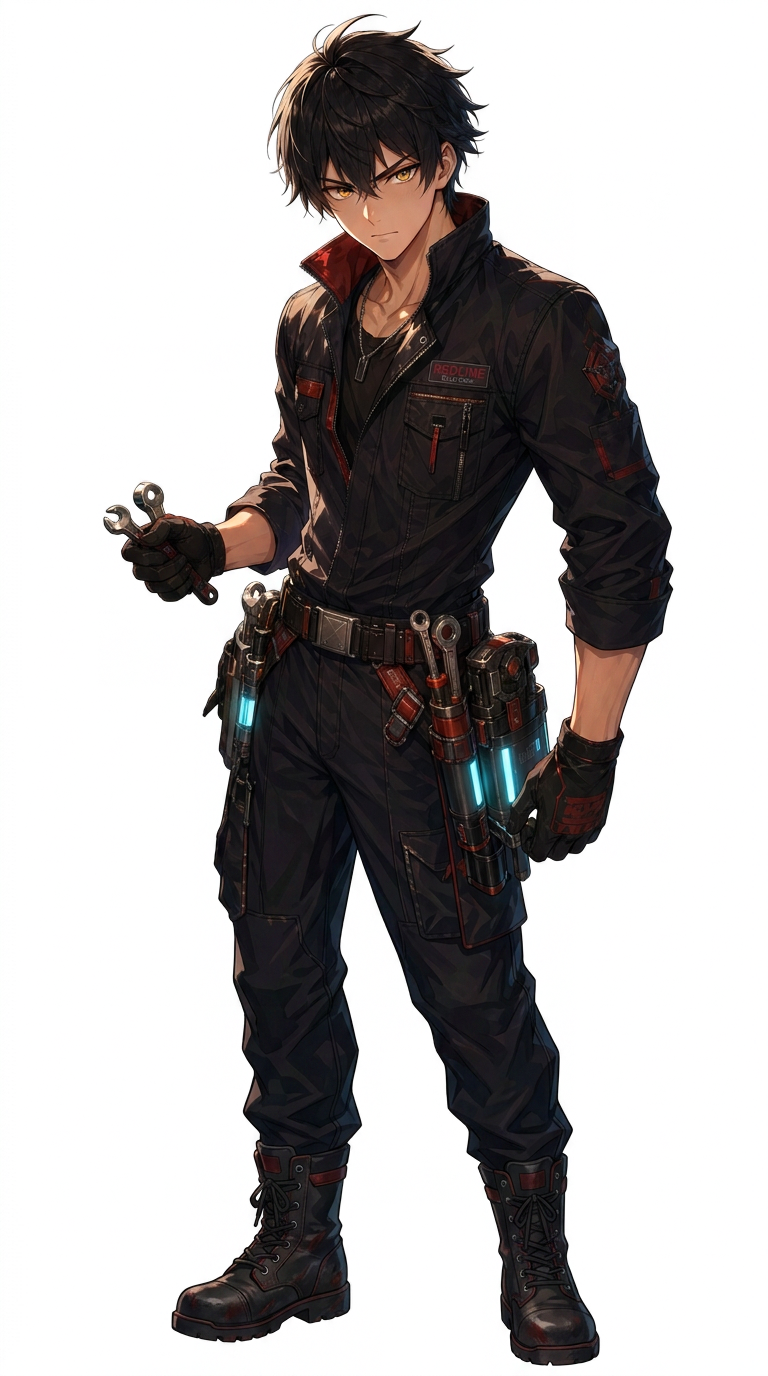
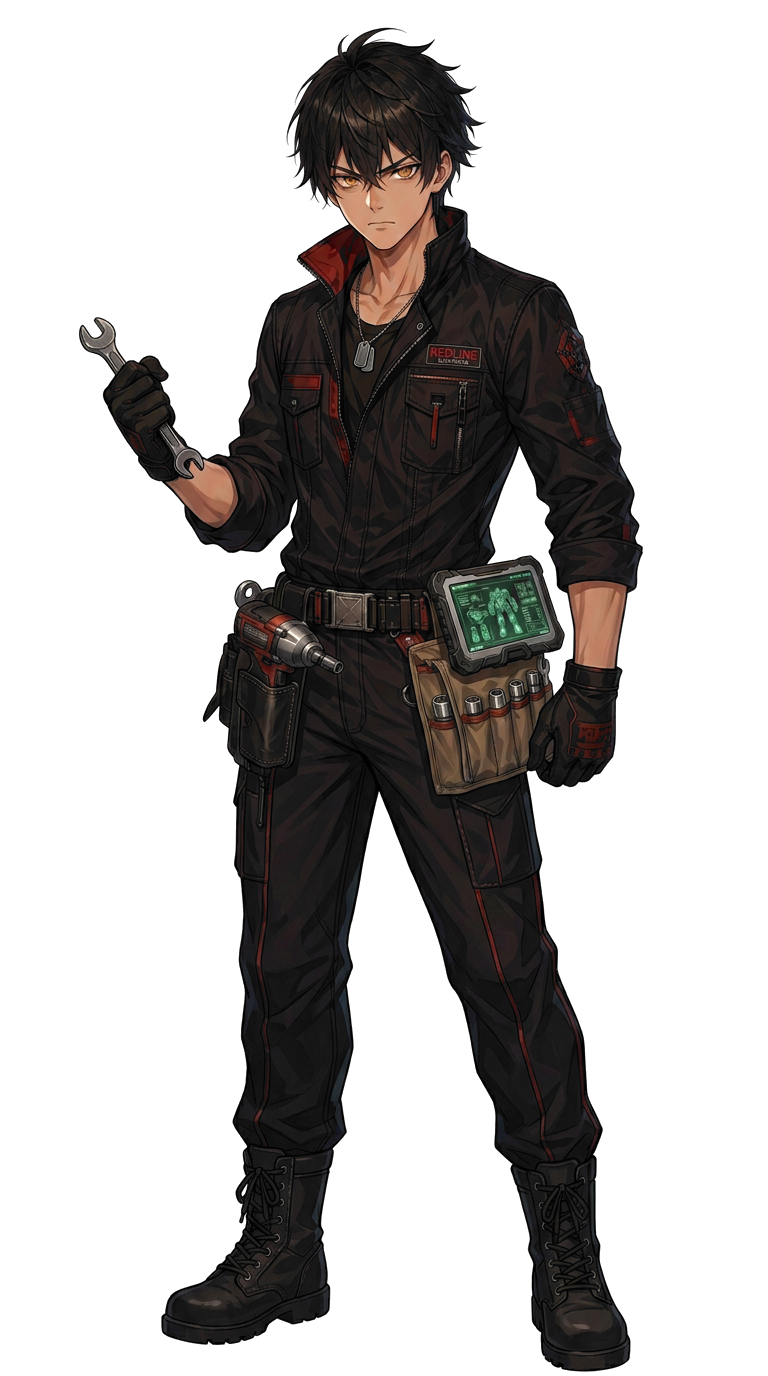
Fix teleport-rollback deadlock, height-only sprite scaling, Momo shoes, Ren real tools
Engine/game (game.js):
- Graph teleport now wipes presentation + history BEFORE and AFTER the async
  engine.run('jump'): rollback() at step 0 scans history('jump'), and the
  teleport entry made Back cross into the pre-jump session — often the
  Start->Start self-edge — replaying statements forward into a corrupted
  half-state ("empty slide you cannot leave": step oscillated -1/0/1, scene
  state set without its element). Reproduced in a real Blink browser, fixed,
  re-verified: Back now clamps at the teleport start as "beginning of game",
  forward flow matches fresh play. Post-wipe must live in the run().then
  chain — a synchronous wipe lands before the Jump action applies.
- Teleport auto-chains one text-box click so the player lands on the first
  VISIBLE statement (scene + banner) instead of an empty slide.

CSS (custom-ui.css):
- Sprites scale by HEIGHT ONLY: engine default [data-character]max-width:100%
  silently shrink-wrapped any sprite wider than a portrait viewport, breaking
  the world-scale heights. Overridden with max-width:none (splash width cap
  removed too). Verified at 420x800: miya 390px / reika 633 / saya 618 —
  exactly 48.8/79.1/77.2vh as in landscape.

Art:
- momo: closed white high-top star sneakers + thigh-high stockings replace
  the toe-less boots that read as bare feet; prompts/03 documents the redo.
- ren: card + sprite rebuilt around REAL tools only (owner requirement):
[…]

Changed region(s): [[0.0938, 0.0, 0.875, 1.0], [0.6875, 0.2812, 0.7188, 0.3125], [0.4062, 0.5312, 0.4375, 0.5625]]

diff --git a/game/index.html b/game/index.html
@@ -6,10 +6,10 @@
     <title>Сэйрин: Ночная смена — Резонанс 2030 | Visual Novel</title>
     <meta name="description" content="Visual Novel: Seirin: Night Shift — Resonance 2030. Runs 100% offline." />
 
-    <link rel="stylesheet" href="assets/fonts/fonts.css?v=20260728r6" />
-    <link rel="stylesheet" href="vendor/monogatari.css?v=20260728r6" />
-    <link rel="stylesheet" href="vendor/icons-offline.css?v=20260728r6" />
-    <link rel="stylesheet" href="vendor/custom-ui.css?v=20260728r6" />
+    <link rel="stylesheet" href="assets/fonts/fonts.css?v=20260728r7" />
+    <link rel="stylesheet" href="vendor/monogatari.css?v=20260728r7" />
+    <link rel="stylesheet" href="vendor/icons-offline.css?v=20260728r7" />
+    <link rel="stylesheet" href="vendor/custom-ui.css?v=20260728r7" />
 </head>
 <body>
 
@@ -93,10 +93,10 @@
         </div>
     </div>
 
-    <script src="vendor/failsafe.js?v=20260728r6"></script>
-    <script src="vendor/monogatari.js?v=20260728r6"></script>
-    <script src="vendor/icons-offline.js?v=20260728r6"></script>
-    <script src="vendor/game.js?v=20260728r6"></script>
+    <script src="vendor/failsafe.js?v=20260728r7"></script>
+    <script src="vendor/monogatari.js?v=20260728r7"></script>
+    <script src="vendor/icons-offline.js?v=20260728r7"></script>
+    <script src="vendor/game.js?v=20260728r7"></script>
 
 </body>
 </html>

diff --git a/tools/normalize_plates.py b/tools/normalize_plates.py
@@ -1,0 +1,66 @@
+#!/usr/bin/env python3
+"""Clamp a matte plate's background to the exact plate colour.
+
+Generators often answer "pure #FFFFFF" with 250-tone haze or "pure #000000"
+with a green/blue-tinted near-black. tools/triangulate_matte.py assumes the
+background is EXACTLY the plate colour, so any haze lands in the alpha as
+partial transparency everywhere ("almost nothing is transparent" WARN).
+
+This tool measures the dominant background colour from corner patches and
+maps pixels close to it onto the exact plate colour. Figure pixels differ
+from the background by more than the threshold and are untouched.
+
+Usage:
+    normalize_plates.py white.png black.png
+    normalize_plates.py plate.png --target white --threshold 40
+"""
+import argparse
+
+import numpy as np
+from PIL import Image
+
+
+def background_colour(a: np.ndarray, patch: int = 12) -> np.ndarray:
+    corners = np.concatenate([
+        a[:patch, :patch].reshape(-1, 3),
+        a[:patch, -patch:].reshape(-1, 3),
+        a[-patch:, :patch].reshape(-1, 3),
+        a[-patch:, -patch:].reshape(-1, 3),
+    ])
+    return np.median(corners, axis=0)
+
+
+def normalize(path: str, target: int, threshold: float) -> dict:
+    im = Image.open(path).convert("RGB")
+    a = np.asarray(im).astype(np.float64)
+    bg = background_colour(a)
+    dist = np.sqrt(((a - bg) ** 2).sum(axis=2))
+    mask = dist <= threshold
+    a[mask] = target
+    Image.fromarray(a.astype(np.uint8)).save(path)
+    return {
+        "file": path,
+        "detected_bg": bg.round(1).tolist(),
+        "target": target,
+        "clamped_pct": round(100.0 * mask.mean(), 2),
+    }
+
+
+def main() -> None:
+    ap = argparse.ArgumentParser()
+    ap.add_argument("plates", nargs="+")
+    ap.add_argument("--target", choices=["auto", "white", "black"], default="auto")
+    ap.add_argument("--threshold", type=float, default=40.0)
+    args = ap.parse_args()
+    for path in args.plates:
+        if args.target == "auto":
+            bg = background_colour(
+                np.asarray(Image.open(path).convert("RGB")).astype(np.float64))
+            target = 255 if bg.mean() > 127 else 0
+        else:
+            target = 255 if args.target == "white" else 0
+        print(normalize(path, target, args.threshold))
+
+
+if __name__ == "__main__":
+    main()

diff --git a/characters/ren/prompts/03_real_tools_redo.md b/characters/ren/prompts/03_real_tools_redo.md
@@ -1,0 +1,42 @@
+# 03 — Real-tools redo (ren), 2026-07-28
+
+## Why
+The project owner rejected the v1 card + sprite tools: the belt carried
+fantasy "glowing canisters" — nothing real. Requirement: **only real tools**,
+in three tiers, plus real machines that belong in a mecha service garage.
+
+## Card (new `ren_card.png`; old v1 kept as `ren_card_v1_superseded.png`)
+> Anime visual novel key art portrait, Ren Akatsuki (17 years old), handsome
+> young male mechanic apprentice, dark short hair, fierce amber eyes, wearing
+> a dark mechanic jumpsuit with red piping, holding a steel combination
+> wrench, tired but determined brave expression; on his belt: cordless impact
+> wrench in a holster, rugged diagnostic tablet, tool roll with sockets;
+> background: a real mecha service bay — heavy-duty lift platform carrying a
+> bipedal mecha leg actuator, gantry crane beam overhead, red rolling tool
+> cabinets, coiled pneumatic air hoses, workbench with a bench vise, engine
+> hoist, parts shelves with servo motors
+
+Tool tiers as drawn:
+- **Ordinary hand tools**: combination wrench (in hand), socket set in the
+  belt tool roll, bench vise.
+- **Automatic / powered**: cordless impact wrench (holstered), pneumatic
+  air-line hoses, robotic arm manipulator, engine hoist.
+- **High-tech**: rugged diagnostic tablet showing the mecha wireframe, plus
+  holographic repair-mode displays (SP-DRAGON V8, tactical armor layout).
+- **Machines**: lift platform with a mecha leg actuator, gantry crane beam,
+  rolling tool cabinets, engine hoist, parts shelving.
+
+## Plates — `plates/ren_white.png` / `plates/ren_black.png`
+White plate prompt mirrors the card kit (tool roll + impact wrench +
+diagnostic tablet + combination wrench — no glowing canisters).
+Black plate: first attempt came back near-white (plate failure mode);
+regenerated with the "replace the entire background" phrasing. It still
+tinted green (bg ≈ [4,5,1]) — **plates normalized with the new
+`tools/normalize_plates.py`** (clamps haze/tinted plate backgrounds to exact
+#FFFFFF / #000000 before triangulation; without it the matte reports
+"almost nothing is transparent").
+
+## Matte
+`resize_and_triangulate.py` → 16.4→8.0% opaque / 66% clear, no WARN.
+Visual: clean over white/black/grey/magenta. Installed as `ren_normal.png`
+(characters + game assets).

diff --git a/characters/momo/prompts/03_closed_shoes_redo.md b/characters/momo/prompts/03_closed_shoes_redo.md
@@ -1,0 +1,22 @@
+# 03 — Closed-shoes redo (momo), 2026-07-28
+
+## Why
+The 02 sprite's toe-less star boots read as bare feet. Owner call: not a
+"tacit bare-feet trope" — the idol must wear clearly closed shoes. (Note:
+open-toe/footless footwear does exist as a real style, but on this sprite it
+did not read as footwear at all.)
+
+## Plates — `plates/momo_white.png` / `plates/momo_black.png`
+White prompt = the 02 prompt plus, verbatim:
+"…wearing fully closed white high-top sneakers with star decals and pink
+laces, closed shoes covering the feet completely"
+(card attached as identity reference; black plate edited from the white.)
+
+## Matte
+Plate backgrounds normalized with `tools/normalize_plates.py`, then
+`resize_and_triangulate.py` → 13.5% opaque / 65.4% clear.
+check_matte still prints "soft edges drift 0.51" — again a **false
+positive** of the pastel palette (hair/stars/hoodie are all low-saturation,
+so soft edge pixels sit far from the body mean). Verified visually over
+white / black / mid-grey / magenta: silhouette intact, sneakers clearly
+shoes. Installed as `momo_normal.png` (characters + game assets).
